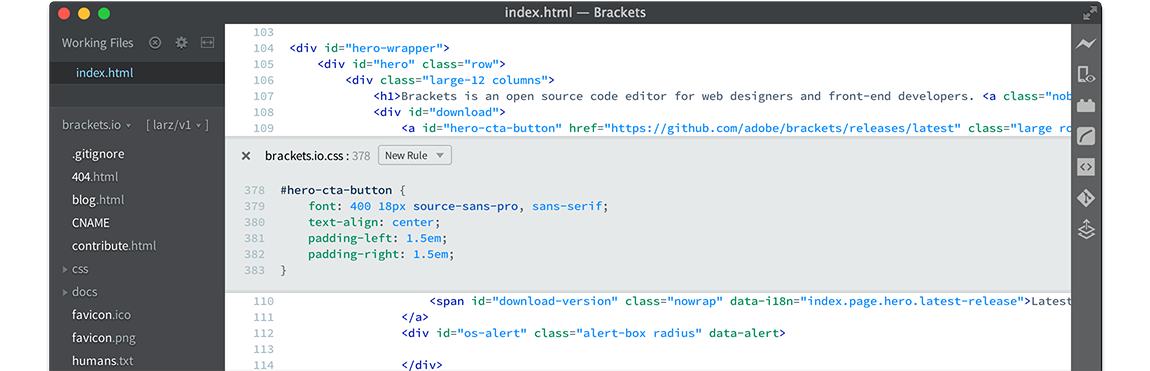
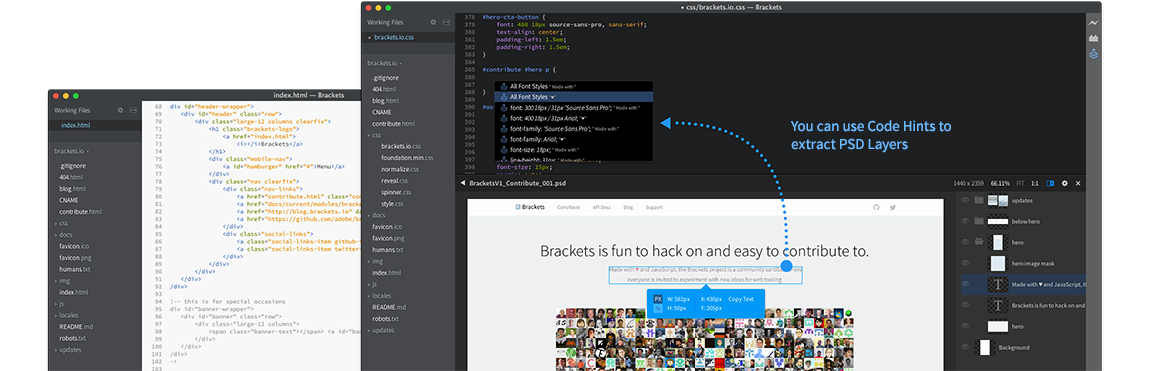
- update for 1.0

diff --git a/index.html b/index.html
@@ -29,7 +29,7 @@
 <head>
     <meta charset="utf-8" />
     <meta name="viewport" content="width=device-width" />
-    <title data-i18n="index.head.title">Brackets - The Free, Open Source Code Editor for the Web</title>
+    <title data-i18n="index.head.title">Brackets - A modern, open source code editor that understands web design.</title>
 
     <link rel="stylesheet" href="css/normalize.css" />
     <link rel="stylesheet" href="css/foundation.min.css" />
@@ -97,23 +97,23 @@
         <div class="large-12 columns">
             <span class="banner-text"></span> <a id="banner-button" href="#" class="rounded radius button"></a>
         </div>
-    </div>        
+    </div>
 </div>
 -->
 
 <div id="hero-wrapper">
     <div id="hero" class="row">
         <div class="large-12 columns">
-            <h1><span data-i18n="index.page.hero.description">Brackets is an open source code editor for web designers and front-end developers.</span></h1>
+            <h1><span data-i18n="index.page.hero.description">A modern, open source text editor that understands web design.</span></h1>
             <div id="download">
-                <a id="hero-cta-button" href="https://github.com/adobe/brackets/releases/latest" class="large rounded radius button"><div data-i18n="index.page.hero.download">Download Brackets</div>
-                    <span id="download-version" class="nowrap" data-i18n="index.page.hero.latest-release">Latest Release</span>
+                <a id="hero-cta-button" href="https://github.com/adobe/brackets/releases/latest" class="large rounded radius button"><div data-i18n="index.page.hero.download">Download Brackets 1.0</div>
+                    <d id="download-version" class="nowrap" data-i18n="index.page.hero.bundle-info">+ Extract (Preview) by Adobe</span>
                 </a>
                 <div id="os-alert" class="alert-box radius" data-alert>
                 </div>
                 <p>
-                    <a id="other-downloads" href="https://github.com/adobe/brackets/releases" data-i18n="index.page.hero.other-downloads">Other Downloads</a>
-                    <a data-reveal-id="system-requirements" href="#" data-i18n="index.page.hero.install-requirements">Installation Requirements</a>
+                    <a id="download-plain-brackets" class="nobr" href="#" data-i18n="index.page.hero.non-bundle-download">Download Brackets without Extract</a>
+                    <a id="other-downloads" class="nobr" href="https://github.com/adobe/brackets/releases" data-i18n="index.page.hero.other-downloads">Other Downloads</a>
                 </p>
                 <img src="img/hero.png" srcset="img/hero@2x.png 2x" alt="Screenshot of Brackets">
             </div>
@@ -121,49 +121,63 @@
     </div>
 </div>
 
-<!-- don't need this for now
 <div id="sub-hero-wrapper">
-    <div id="sub-hero" class="row">
+    <div class="intro row">
+        <div class="large-10 large-centered columns">
+            <p data-i18n="index.page.hero.blurb">With focused visual tools and preprocessor support, Brackets is a modern text editor that makes it easy to design in the browser. Try Creative Cloud Extract (preview) for Brackets for an easy way to get clean, minimal CSS straight from a PSD with no generated code.</p>
+        </div>
+    </div>
+    <div class="sub-intro row">
         <div class="large-6 columns">
-            <h2 data-i18n="index.page.sub-hero.linux.header">Linux: New &amp; Improved</h2>
-            <p><span data-i18n="index.page.sub-hero.linux.content">Over the last few releases we’ve made progress on Linux (Debian/Ubuntu) support for Brackets.</span>
-                <br>
-                <a href="https://github.com/adobe/brackets/wiki/Linux-Version" data-i18n="index.page.sub-hero.linux.more">Check it out.</a>
-            </p>
+            <h2 data-i18n="index.page.content.why.header">Why Use Brackets?</h2>
+            <p data-i18n="index.page.content.why.brackets">Brackets is a lightweight, yet powerful, modern text editor. We blend visual tools into the editor so you get the right amount of help when you want it. With new features and extensions released every 3-4 weeks, it's like getting presents all year long.</p>
         </div>
         <div class="large-6 columns">
-            <h2 data-i18n="index.page.sub-hero.dev.header">Effective Development</h2>
-            <p><span data-i18n="index.page.sub-hero.dev.content">Imagine the ability to fluently edit external styles and code without even leaving your document!</span>
-                <br>
-                <a href="http://dev.brackets.io/preso/intro/assets/features/brackets-quick-edit-js.PNG" data-i18n="index.page.sub-hero.dev.more">See how it looks.</a>
+            <h2>
+                <svg id="extract" width="20px" height="23px">
+                    <g>
+                            <path d="M0,11.917 L8.34,7.255 L8.34,8.412 L2.07,11.918 L10,16.352 L17.931,11.918 L11.66,8.412 L11.66,7.255 L20,11.917 L10,17.509 L0,11.917 Z M4.387,16.113 L2.07,17.408 L10,21.843 L17.931,17.408 L15.613,16.113 L16.648,15.535 L20,17.408 L10,23 L0,17.408 L3.352,15.535 L4.387,16.113 Z" id="layers" fill="#2098F5"></path>
+                            <path d="M10.553,1.973 L10.553,12.113 L9.454,12.113 L9.454,1.972 L6.526,5.07 L5.744,4.374 L10.008,0 L14.256,4.374 L13.474,5.07 L10.553,1.973 L10.553,1.973 Z" id="arrow" fill="#2098F5"></path>
+                    </g>
+                </svg>
+                <span data-i18n="index.page.content.why.extract-header">Get Code Hints from a PSD</span>
+            </h2>
+            <p data-i18n="index.page.content.why.extract">The Extract for Brackets (Preview) extension lets you pull out design information from a PSD including colors, fonts, gradients, and measurement information as clean, minimal CSS via contextual code hints. You can also extract layers as images, use information from the PSD to define preprocessor variables, and easily get dimensions between objects. All in the context of your code.</p>
+            <p id="secondary-download">
+                <a id="e4b-secondary-download" href="https://github.com/adobe/brackets/releases/latest" class="button radius small secondary" data-i18n="index.page.content.why.extract">Download Brackets + Extract (Preview) by Adobe</a>
+<!--                <a href="https://github.com/adobe/brackets/releases/latest" class="link-beside-button">Download Brackets<br>without PSD Support</a>-->
             </p>
         </div>
     </div>
+    <div class="last-row on-white row">
+        <div class="medium-4 large-4 columns">
+            <div class="float-obj">
+                <object type="image/svg+xml" width="50px" height="50px" data="img/graphics.svg#inline-editor"></object>
+            </div>
+            <h3 data-i18n="index.page.content.feature-highlights.inline-editor-header">Inline Editors</h3>
+            <p data-i18n="index.page.content.feature-highlights.inline-editor-text">Instead of jumping between file tabs, Brackets lets you open a window into the code you care about most. Want to work on the CSS that applies to a specific ID? Put your mouse cursor on that ID, push <kbd>Command</kbd> / <kbd>Ctrl+E</kbd> and Brackets will show you all the CSS selectors with that ID in an inline window so you can work on your code side-by-side without any popups.</p>
+        </div>
+        <div class="medium-4 large-4 columns">
+            <div class="float-obj">
+                <object type="image/svg+xml" width="50px" height="50px" data="img/graphics.svg#live-preview"></object>
+            </div>
+            <h3 data-i18n="index.page.content.feature-highlights.live-preview-header">Live Preview</h3>
+            <p data-i18n="index.page.content.feature-highlights.live-preview-text">Get a real-time connection to your browser. Make changes to CSS and HTML and you'll instantly see those changes on screen. Also see where your CSS selector is being applied in the browser by simply putting your cursor on it. It's the power of a code editor with the convenience of in-browser dev tools.</p>
+        </div>
+        <div class="medium-4 large-4 columns">
+            <div class="float-obj">
+                <object type="image/svg+xml" width="50px" height="50px" data="img/graphics.svg#preprocessors"></object>
+            </div>
+            <h3 data-i18n="index.page.content.feature-highlights.preprocessor-header">Preprocessor Support</h3>
+            <p data-i18n="index.page.content.feature-highlights.preprocessor-text">Work with preprocessors in a whole new way. We know how important preprocessors are to your workflow. That’s why we want to make Brackets the best code editor for preprocessors out there. With Brackets you can use Quick Edit and Live Highlight with your LESS and SCSS files which will make working with them easier than ever.
+</p>
+        </div>
+    </div>
 </div>
--->
+
 
 <div id="content-wrapper">
     <div id="content" class="row">
-        <div class="medium-4 large-4 columns">
-            <h2 data-i18n="index.page.content.why.header">Why Use Brackets?</h2>
-
-            <h3 data-i18n="index.page.content.why.in-browser.header">Design In The Browser</h3>
-            <p data-i18n="index.page.content.why.in-browser.content">Brackets doesn't get in the way of your creative process. It blends visual tools into the editor while pushing HTML and CSS to the browser as you code.</p>
-
-            <h3 data-i18n="index.page.content.why.experience.header">An Elevated Experience</h3>
-            <p data-i18n="index.page.content.why.experience.content">Brackets isn't just pretty, it's also powerful. You'll enjoy writing code in Brackets. It will stay out of your way and provide just the right amount of help when you ask for it.</p>
-
-            <h3 data-i18n="[html]index.page.content.why.love-and-js.header">Made with
-                <a href="contribute.html">&hearts;</a> and JavaScript</h3>
-            <p data-i18n="index.page.content.why.love-and-js.content">Brackets is an open-source project, with an active and growing developer community. It's made by other web developers like you!</p>
-
-            <h3 data-i18n="index.page.content.why.evolving.header">It's Evolving</h3>
-            <p data-i18n="index.page.content.why.evolving.content">Brackets is a sandbox for trying out new ideas for web tooling. New features and extensions are released every 2.5 weeks. It's like getting presents all year long.</p>
-
-            <p>
-                <a class="button radius secondary" href="http://www.youtube.com/watch?v=VKitqLpJtAY&list=PL4BC6BE6AA61BE69D" data-i18n="index.page.content.why.video" data-yt-id="VKitqLpJtAY?listType=playlist&list=PL4BC6BE6AA61BE69D">Watch the Video&hellip;</a>
-            </p>
-        </div>
         <div class="medium-4 large-4 columns" id="features">
             <h2 data-i18n="index.page.content.new-features.new-features">New Features</h2>
             <div class="spinner">
@@ -171,6 +185,35 @@
 
             <!-- JS generated content -->
 
+        </div>
+        <div class="medium-4 large-4 columns">
+            <h2>Popular Extensions</h2>
+
+            <h3><a href="https://github.com/Jacse/themes-for-brackets">Themes for Brackets</a></h3>
+            <p>A theme-pack that styles the whole editor.</p>
+
+            <h3><a href="https://github.com/thehogfather/brackets-code-folding">Code Folding</a></h3>
+            <p>Brace folding, tag folding, indent folding and multi-line comment folding.</p>
+
+            <h3><a href="https://github.com/drewhamlett/brackets-beautify">Beautify</a></h3>
+            <p>Format JavaScript, HTML, and CSS files.</p>
+
+            <h3><a href="https://github.com/emmetio/brackets-emmet">Emmet</a></h3>
+            <p>High-speed HTML and CSS workflow.</p>
+
+            <h3><a href="https://github.com/zaggino/brackets-git">Brackets Git</a></h3>
+            <p>Git integration for Brackets</p>
+
+            <h3><a href="https://github.com/mikaeljorhult/brackets-autoprefixer">Autoprefixer</a></h3>
+            <p>Parse CSS and add vendor prefixes automatically.</p>
+
+            <h3><a href="https://github.com/cfjedimaster/brackets-jshint">JSHint</a></h3>
+            <p>JSHint support for Brackets</p>
+
+            <h3><a href="https://github.com/Wikunia/brackets-QuickDocsPHP">QuickDocsPHP</a></h3>
+            <p>Inline documentation for PHP functions, including a summary, syntax, return values and parameters.</p>
+
+            <p><a class="button radius secondary" href="https://ingorichter.github.io/BracketsExtensionTweetBot/">Check Out New Extensions</a></p>
         </div>
         <div class="medium-4 large-4 columns">
             <h2 data-i18n="index.page.content.blog.header">Recent Blog Posts</h2>
@@ -343,6 +386,7 @@
     if (/iPad|iPod|iPhone|Android/.test(navigator.userAgent)) {
         OS = "OTHER";
         $("#download").hide();
+        $("#secondary-download").hide();
     }
 </script>
 
@@ -389,6 +433,7 @@
             unsupported.default = "Unfortunately, we don't support " + unsupported.os + " any longer. <a href='" + unsupported.url + "'>Take a look at the Requirements.</a>";
         }
         $("#hero-cta-button").hide();
+        $("#download-plain-brackets").hide();
         updateAlertContent(unsupported);
         if (!i18nLoaded.state() !== "resolved") {
             i18nLoaded.done(function () {
@@ -429,7 +474,8 @@
                 // update button
                 if (OS != "OTHER" && buildNum) {
                     var tag = buildName.toLowerCase().split(" ").join("-"),
-                        url = "https://github.com/adobe/brackets/releases/" + tag;
+                        url = "https://github.com/adobe/brackets/releases/" + tag,
+                        urlE4B = "https://github.com/adobe/brackets/releases/tag/brackets-1.0-extract/Brackets.Release.1.0.Extract" + ext;
                     if (ext) {
                         url = "https://github.com/adobe/brackets/releases/download/" + tag + "/Brackets." + buildName.split(" ").join(".") + ext;
                     }
@@ -441,7 +487,9 @@
                     if (OS != "UNKNOWN") version_label += " (" + OS + ")";
                     $("#download-version").html(version_label);
 
-                    logAndGo("hero-cta-button", url, ['_trackEvent', 'Downloads', buildNum, OS]);
+                    logAndGo("hero-cta-button", urlE4B, ['_trackEvent', 'E4BDownloads', buildNum, OS]);
+                    logAndGo("e4b-secondary-download", urlE4B, ['_trackEvent', 'E4BDownloads', buildNum, OS]);
+                    logAndGo("download-plain-brackets", url, ['_trackEvent', 'Downloads', buildNum, OS]);
                 }
 
                 // other-download track
@@ -454,7 +502,7 @@
                 feature_content += "<h3>" + $("<div/>").text(feature.name).html() + "</h3>";
                 feature_content += "<p>" + $("<div/>").text(feature.description).html() + "</p>";
             });
-            feature_content += "<p><a class='button radius secondary' href='" + build.releaseNotesURL + "'>" + i18n.t("index.page.content.new-features.release-notes", { defaultValue: "Read More in the Release Notes." }) + "</a></p>";
+            feature_content += "<p><a class='button radius secondary' href='" + build.releaseNotesURL + "'>" + i18n.t("index.page.content.new-features.release-notes", { defaultValue: "Read More in the Release Notes" }) + "</a></p>";
             $("#features").html(feature_content);
         });
     });

diff --git a/css/brackets.io.css b/css/brackets.io.css
@@ -104,13 +104,13 @@ a:active {
 
 .keystroke,
 kbd {
-    background-color: #f7f7f7;
-    border-color: #dbdbdb;
+    background-color: #fff;
+    border-color: #bcbcbc;
     -webkit-border-radius: 2px;
     border-radius: 2px;
     border-style: solid;
     border-width: 1px;
-    color: #686868;
+    color: #000;
     margin: 0;
     font-family: source-code-pro, monospace;
     font-size: 0.7em;
@@ -195,9 +195,55 @@ blockquote p {
     padding-left: 0;
 }
 
+.last-row {
+    padding-bottom: 50px;
+}
+
+.on-white {
+    color: #8a8b8c;
+}
+
+.float-obj {
+    float: left;
+    margin-right: 18px;
+    position: relative;
+    top: 7px;
+    left: 1px;
+}
+
+.intro p {
+    color: #4d4d4d;
+    font-size: 27px;
+    font-weight: 300;
+    line-height: 42px;
+    margin: 0 auto 80px;    
+}
+
+.sub-intro p {
+    color: #4f4f52;
+    font: 300 18px / 30px source-sans-pro, sans-serif;
+    margin-bottom: 30px;
+    text-rendering: optimizeLegibility;
+}
+
+.link-beside-button {
+    display: inline-block;
+    font-size: 12px;
+    line-height: 1.5;
+    margin-left: 21px;
+    position: relative;
+    top: 9px;
+}
+
 
 /* Theme
 ------------------------------------------------------------------- */
+
+#extract {
+    margin-right: 3px;
+    position: relative;
+    top: 2px;
+}
 
 .hearts {
     color: #db8ea2;
@@ -347,15 +393,15 @@ blockquote p {
 
 #hero p {
     color: #5a5a5c;
-    font: 300 18px / 30px source-sans-pro, sans-serif;
+    font: 300 24px / 36px source-sans-pro, sans-serif;
     text-align: center;
     width: 70%;
-    margin: 20px auto 50px;
+    margin: 20px auto 80px;
 }
 
 #home #hero h1 {
-    margin: 0 auto 44px;
-    width: 95%;
+    margin: 0 auto 36px;
+    width: 70%;
 }
 
 #home #hero h1 a {
@@ -364,6 +410,11 @@ blockquote p {
 
 #download {
     text-align: center;
+}
+
+#download p {
+    margin-top: 2px;
+    margin-bottom: 45px;
 }
 
 #download p > a { /* links below download button */
@@ -380,12 +431,6 @@ blockquote p {
     text-align: center;
     padding-left: 1.5em;
     padding-right: 1.5em;
-}
-
-#contribute #hero p {
-    font-size: 24px;
-    line-height: 36px;
-    margin: 20px auto 80px;
 }
 
 #os-alert {
@@ -423,16 +468,9 @@ blockquote p {
     padding: 70px 0 0;
 }
 
-#sub-hero h2 {
+#sub-hero-wrapper h2 {
     font: 300 24px source-sans-pro, sans-serif;
     margin-bottom: 22px;
-}
-
-#sub-hero p {
-    color: #4f4f52;
-    font: 300 18px / 30px source-sans-pro, sans-serif;
-    margin-bottom: 30px;
-    text-rendering: optimizeLegibility;
 }
 
 #contributors {
@@ -630,6 +668,11 @@ blockquote p {
         font-size: 23px;
         line-height: 36px;
         width: 100% !important;
+    }
+    
+    .intro p {
+        font-size: 14px;
+        line-height: 21px;
     }
     
     #contribute #hero p {

diff --git a/contribute.html b/contribute.html
@@ -89,7 +89,7 @@
     <div id="hero" class="row">
         <div class="large-12 columns">
             <h1 data-i18n="[html]contribute.page.hero.header">Brackets is fun to hack on and easy to <span class="nobr">contribute to.</span></h1>
-            <p data-i18n="[html]contribute.page.hero.content">Made with <span class="hearts">&hearts;</span> and JavaScript, the Brackets project is a community sandbox where everyone is invited to experiment with new ideas for <span class="nobr">web tooling.</span></p>
+            <p class="intro-p" data-i18n="[html]contribute.page.hero.content">Made with <span class="hearts">&hearts;</span> and JavaScript, the Brackets project is a community sandbox where everyone is invited to experiment with new ideas for <span class="nobr">web tooling.</span></p>
             <!-- Populate contributors via Github -->
             <div id="contributors"></div>
         </div>
@@ -97,7 +97,7 @@
 </div>
 
 <div id="sub-hero-wrapper">
-    <div id="sub-hero" class="row">
+    <div class="sub-intro row">
         <div class="medium-6 large-4 columns">
             <h2 data-i18n="contribute.page.sub-hero.hack.header">How to Hack on Brackets?</h2>
             <p><span data-i18n="contribute.page.sub-hero.hack.content">Read our detailed instructions for setting up a development environment and get hacking right away.</span>
